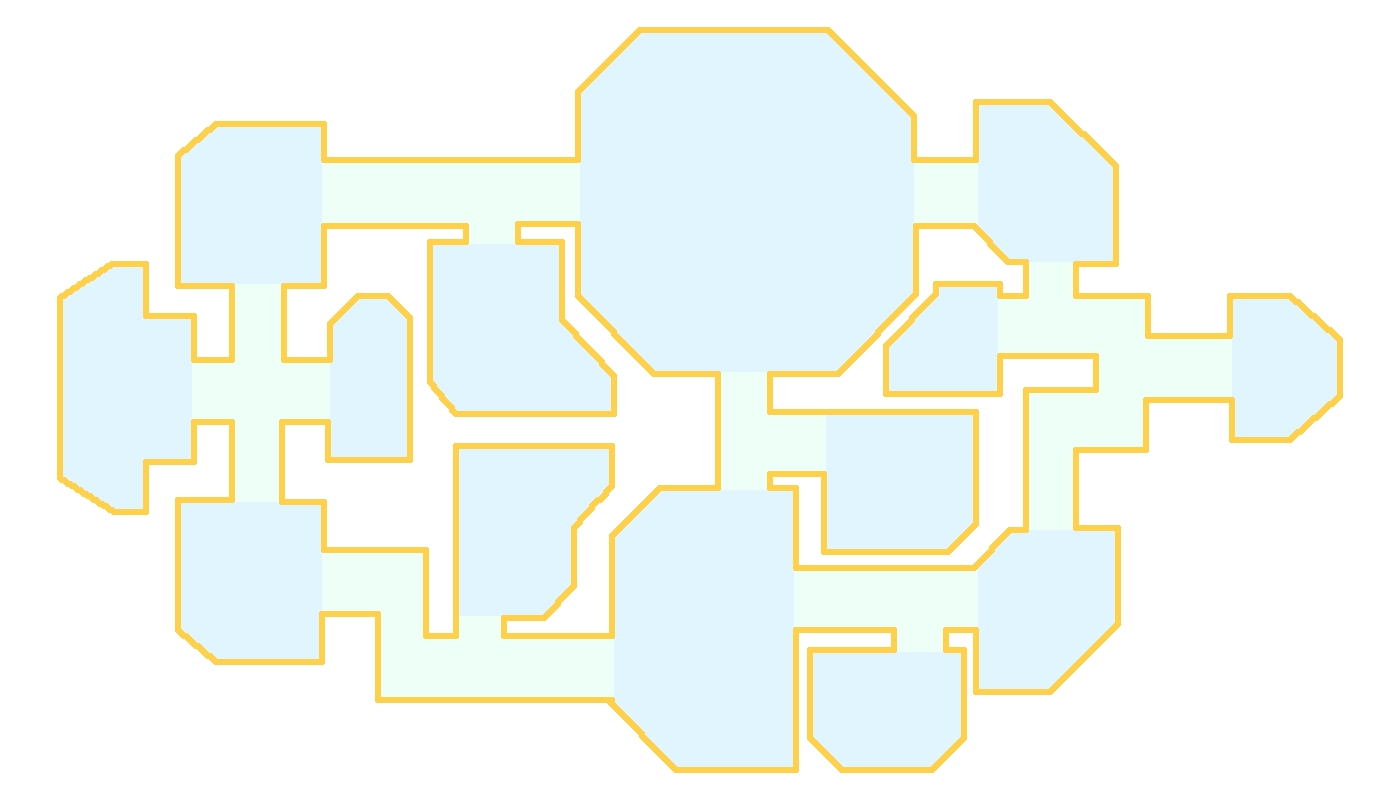
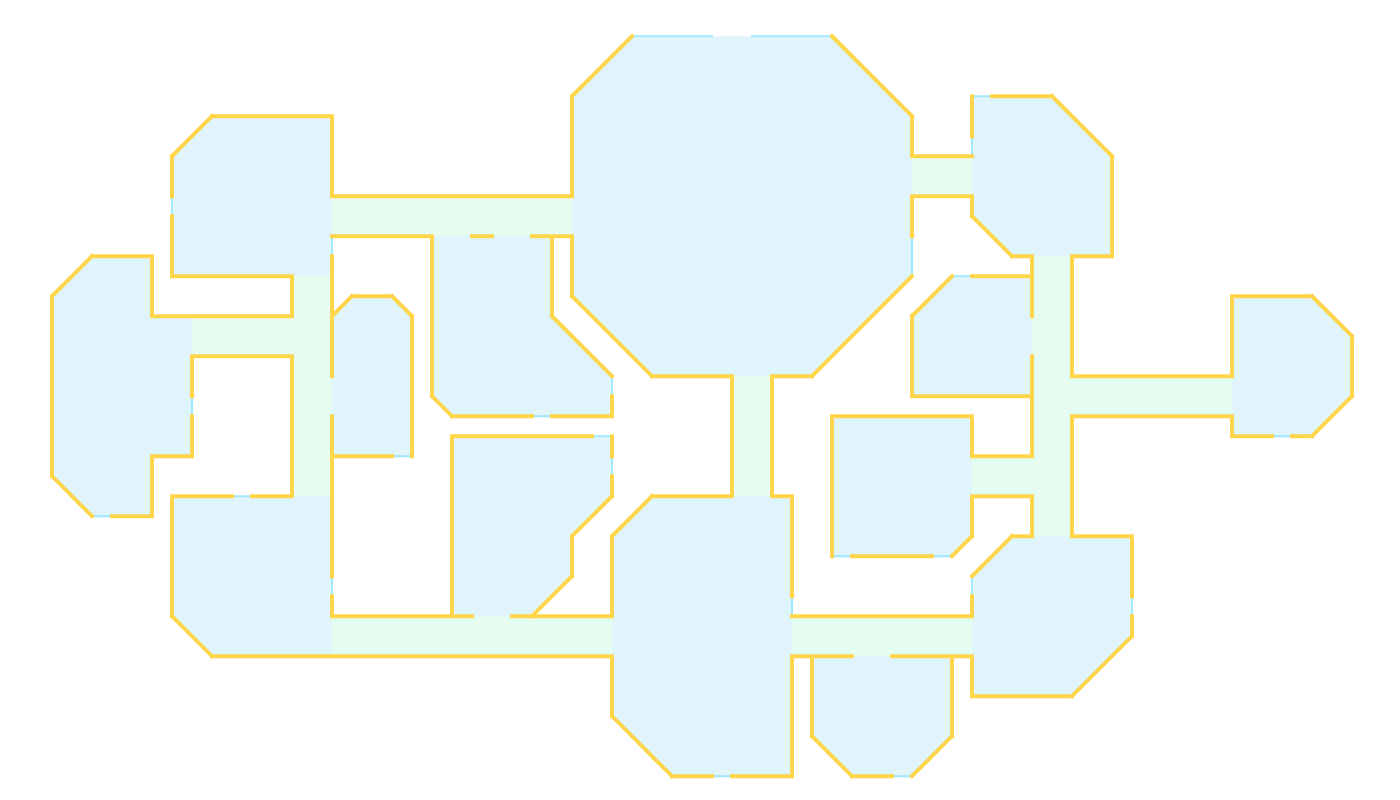
Haunting: Grundriss-Vorlage und Vorschaubild aus dem gebauten Grundriss gerechnet
Die Vorlage am Boden war aus der Zeichnung gepaust und zeigte nach den
schmaleren Gängen (vier Felder) breite grüne Gänge unter schmalen Wänden.
world3d/blueprintDrawing.ts zeichnet sie jetzt als SVG aus roomOutline und
wallSegments (Türlücken, Fenster), tools/station-outline.mjs rastert sie im
Chromium und schreibt dazu public/worlds/haunting.webp neu.

Claude-Session: https://claude.ai/code/session_01KsvF36raZrb8AB9aweLDKb

diff --git a/src/worlds/haunting/world3d/blueprintDrawing.ts b/src/worlds/haunting/world3d/blueprintDrawing.ts
@@ -1,0 +1,89 @@
+import { roomOutline, spacesOf, type HouseSpec } from '../house';
+import { wallSegments } from '../map/geometry';
+import { BLUEPRINT } from './blueprint';
+
+/**
+ * **Die Grundriss-Vorlage, aus dem gebauten Grundriss gerechnet.**
+ *
+ * Bis September 2026 war `public/haunting/station-outline.png` aus der
+ * Zeichnung des Besitzers gepaust (`docs/orbital/station-vorlage.webp`). Seit
+ * die Gänge den Regeln aus `stationRules.ts` folgen (vier Felder breit), passt
+ * die Zeichnung nicht mehr: Am Boden lagen breite grüne Gänge unter schmalen
+ * Wänden. Jetzt entsteht das Bild aus demselben Grundriss wie die Station —
+ * Räume und Gänge aus `roomOutline`, Wände samt Türlücken und Fenstern aus
+ * `map/geometry.wallSegments` — und wird mit `node tools/station-outline.mjs`
+ * neu gerechnet, wann immer `stationMap.ts` sich ändert.
+ *
+ * Hier steht nur das SVG als Text, ohne Browser: Gerastert wird es im
+ * Werkzeug mit Chromium (wie `tools/icons.mjs`). Maßstab und Lage bleiben die
+ * von `BLUEPRINT`, damit `blueprintArt.ts` nichts davon merkt.
+ */
+
+/** Die Farben der Vorlage — dieselben wie im alten, gepausten Bild. */
+export const BLUEPRINT_COLOURS = {
+  wall: '#ffd54a',
+  window: '#9fe8ff',
+  room: 'rgba(170, 225, 245, 0.38)',
+  passage: 'rgba(170, 245, 205, 0.30)',
+} as const;
+
+/** Wie dick eine Wandlinie gezeichnet wird, in Pixeln (20 Pixel = 1 m). */
+export const BLUEPRINT_WALL_PX = 4;
+
+export interface BlueprintDrawingOptions {
+  /** Hintergrund hinter allem (Vorschaubild); ohne ist das Bild durchsichtig. */
+  background?: string;
+}
+
+/** Ein Punkt der Station (Meter) als Pixel der Vorlage. */
+export function blueprintPixel(x: number, z: number): { px: number; py: number } {
+  const { anchor, pxPerMetre } = BLUEPRINT;
+  return {
+    px: anchor.px + (x - anchor.x) * pxPerMetre,
+    py: anchor.py + (z - anchor.z) * pxPerMetre,
+  };
+}
+
+const round = (value: number): string => String(Math.round(value * 10) / 10);
+
+/**
+ * Das SVG der Vorlage: `BLUEPRINT.width` × `BLUEPRINT.height` Pixel, Räume
+ * blau und Gänge grün getönt, Wände gelb mit Lücken für die Türen, Fenster
+ * hellblau.
+ */
+export function blueprintSvg(spec: HouseSpec, options: BlueprintDrawingOptions = {}): string {
+  const { width, height } = BLUEPRINT;
+  const parts: string[] = [
+    `<svg xmlns="http://www.w3.org/2000/svg" width="${width}" height="${height}" viewBox="0 0 ${width} ${height}">`,
+  ];
+  if (options.background)
+    parts.push(`<rect width="${width}" height="${height}" fill="${options.background}"/>`);
+  for (const space of spacesOf(spec)) {
+    const points = roomOutline(space)
+      .map((corner) => {
+        const { px, py } = blueprintPixel(corner.x, corner.z);
+        return `${round(px)},${round(py)}`;
+      })
+      .join(' ');
+    const fill = space.circulation ? BLUEPRINT_COLOURS.passage : BLUEPRINT_COLOURS.room;
+    parts.push(`<polygon points="${points}" fill="${fill}"/>`);
+  }
+  const line = (kind: 'wall' | 'window', width: number, colour: string): void => {
+    const d = wallSegments(spec)
+      .filter((segment) => segment.kind === kind)
+      .map((segment) => {
+        const a = blueprintPixel(segment.a.x, segment.a.z);
+        const b = blueprintPixel(segment.b.x, segment.b.z);
+        return `M${round(a.px)} ${round(a.py)}L${round(b.px)} ${round(b.py)}`;
+      })
+      .join('');
+    if (d)
+      parts.push(
+        `<path d="${d}" fill="none" stroke="${colour}" stroke-width="${width}" stroke-linecap="square"/>`,
+      );
+  };
+  line('window', BLUEPRINT_WALL_PX / 2, BLUEPRINT_COLOURS.window);
+  line('wall', BLUEPRINT_WALL_PX, BLUEPRINT_COLOURS.wall);
+  parts.push('</svg>');
+  return parts.join('\n');
+}

diff --git a/src/worlds/haunting/world3d/blueprintDrawing.test.ts b/src/worlds/haunting/world3d/blueprintDrawing.test.ts
@@ -1,0 +1,40 @@
+import { generateHouse, spacesOf } from '../house';
+import { wallSegments } from '../map/geometry';
+import { BLUEPRINT } from './blueprint';
+import { BLUEPRINT_COLOURS, blueprintPixel, blueprintSvg } from './blueprintDrawing';
+
+describe('Die Grundriss-Vorlage aus dem gebauten Grundriss', () => {
+  const spec = generateHouse(1, 14);
+  const svg = blueprintSvg(spec);
+
+  it('rechnet Meter in Pixel der Vorlage — 20 Pixel je Meter ab dem Anker', () => {
+    expect(blueprintPixel(-34, -52)).toEqual({ px: 52, py: 36.2 });
+    const next = blueprintPixel(-33, -50);
+    expect(next.px).toBeCloseTo(72);
+    expect(next.py).toBeCloseTo(76.2);
+  });
+
+  it('ist so groß wie die Vorlage und durchsichtig, solange kein Hintergrund verlangt ist', () => {
+    expect(svg).toContain(`width="${BLUEPRINT.width}" height="${BLUEPRINT.height}"`);
+    expect(svg).not.toContain('<rect');
+    expect(blueprintSvg(spec, { background: '#000' })).toContain('<rect');
+  });
+
+  it('zeichnet jeden Raum und jeden Gang als eigene Fläche, Gänge grün getönt', () => {
+    const polygons = svg.match(/<polygon /g) ?? [];
+    expect(polygons).toHaveLength(spacesOf(spec).length);
+    const passages = svg.split(BLUEPRINT_COLOURS.passage).length - 1;
+    expect(passages).toBe(spec.passages?.length ?? 0);
+  });
+
+  it('zeichnet jede Wandstrecke — und alles liegt innerhalb des Bildes', () => {
+    const walls = wallSegments(spec).filter((segment) => segment.kind === 'wall');
+    const moves = svg.match(/M[-\d.]+ [-\d.]+L[-\d.]+ [-\d.]+/g) ?? [];
+    expect(moves.length).toBeGreaterThanOrEqual(walls.length);
+    for (const move of moves) {
+      const [x1, y1, x2, y2] = move.match(/-?[\d.]+/g)!.map(Number);
+      for (const x of [x1!, x2!]) expect(x >= 0 && x <= BLUEPRINT.width).toBe(true);
+      for (const y of [y1!, y2!]) expect(y >= 0 && y <= BLUEPRINT.height).toBe(true);
+    }
+  });
+});

diff --git a/src/worlds/haunting/world3d/blueprint.ts b/src/worlds/haunting/world3d/blueprint.ts
@@ -11,12 +11,13 @@ import type { Rect } from '../house';
  * Vorher war sie nur ungefähr abgepaust (24 Pixel = 1 m), und Boden und Wände
  * passten nicht zum Bild. Die Eichung ist die beste Deckung aller Wandlinien
  * mit den Kachelkanten: Pixelspalte 52 ist `x = −34`, Pixelzeile 36,2 ist
- * `z = −52`. Aus der Vorlage ist `public/haunting/station-outline.png`
- * gerechnet — Wände als helle Linien, Räume und Gänge leicht getönt, alles
- * andere durchsichtig —, und wer es einschaltet (_Optionen →
- * Grundriss-Vorlage_), sieht, wo das Raster von der Zeichnung abweicht: um
- * höchstens eine halbe Kachel, wo eine Linie auf die nächste Kante gerundet
- * ist.
+ * `z = −52`. Das Bild `public/haunting/station-outline.png` war zuerst aus
+ * der Zeichnung gepaust; seit die Gänge vier Felder breit sind
+ * (`stationRules.ts`), wird es **aus dem gebauten Grundriss gerechnet**
+ * (`blueprintDrawing.ts`, `node tools/station-outline.mjs`) — Wände gelb mit
+ * Türlücken, Räume blau und Gänge grün getönt, alles andere durchsichtig —,
+ * in derselben Eichung. Wer es einschaltet (_Optionen → Grundriss-Vorlage_),
+ * sieht also genau die Wände, die gebaut sind.
  *
  * Hier stehen nur Zahlen, kein three.js und kein `import.meta`: Die Eichung
  * prüft ein Test (`blueprint.test.ts`) gegen die Räume des Grundrisses.

diff --git a/src/worlds/haunting/stationMap.ts b/src/worlds/haunting/stationMap.ts
@@ -1,6 +1,7 @@
 /**
  * **Die Station, Kachel für Kachel** — abgepaust von der Vorlage des Besitzers
- * (`public/haunting/station-outline.png`, `docs/orbital/station-vorlage.webp`)
+ * (`docs/orbital/station-vorlage.webp`; die Vorlage am Boden, `public/haunting/station-outline.png`,
+ * wird inzwischen umgekehrt aus dieser Karte gerechnet)
  * im Maßstab **20 Pixel = 1 Meter** (`world3d/blueprint.ts`).
  *
  * Gewünscht: _„Kannst du map haunting neu aufbauen, die Boden und

diff --git a/docs/agents/haunting.md b/docs/agents/haunting.md
@@ -65,8 +65,9 @@ inhaltliche Stand in README und diese Architektur müssen zusammenpassen.
       **Shields, eine Kachel breiter** (die Westtür liegt jetzt tiefer, und
       die Einrichtung fand bei 11 von 300 Samen keinen Platz mehr; die
       Klappe `vent-shields` wandert mit an die neue Ostwand). Die
-      Grundriss-Vorlage am Boden zeigt die Gänge daher breiter, als sie
-      gebaut sind.
+      Grundriss-Vorlage am Boden wird seither aus dem gebauten Grundriss
+      gerechnet (siehe _Die Vorlage am Boden_) und zeigt die Gänge so
+      schmal, wie sie sind.
     `stationRooms` legt die `:`-Kacheln zu Rechtecken zusammen.
   - **Kein Raum berührt einen anderen** (`roomGraph.test`: keine Wandnachbarn
     ohne Tür); wo die Zeichnung zwei Schrägen dichter zusammenlegt, ist eine
@@ -88,10 +89,19 @@ inhaltliche Stand in README und diese Architektur müssen zusammenpassen.
   (`localStorage` `haunting:blueprint`). Eichung: **20 Pixel = 1 m**, die
   beste Deckung aller Wandlinien mit den Kachelkanten — Pixelspalte 52 ist
   `x = −34`, Pixelzeile 36,2 ist `z = −52`. Das Bild
-  `public/haunting/station-outline.png` ist aus der Vorlage gerechnet
-  (Wände gelb, Räume blau, Gänge grün getönt, der Rest durchsichtig);
-  `blueprint.test` prüft, dass jede Raummitte höchstens 1,5 m neben ihrer
-  Zeichnung liegt.
+  `public/haunting/station-outline.png` war zuerst aus der Zeichnung
+  gepaust; seit die Gänge vier Felder breit sind, passte es nicht mehr
+  (breite grüne Gänge unter schmalen Wänden). **Jetzt wird es aus dem
+  gebauten Grundriss gerechnet** (`world3d/blueprintDrawing.ts`:
+  `roomOutline` je Raum und Gang, Wände aus `map/geometry.wallSegments`
+  samt Türlücken, Fenster hellblau) und mit
+  `SMOKE_EXECUTABLE=/opt/pw-browsers/chromium node tools/station-outline.mjs`
+  im Chromium gerastert — **wer `stationMap.ts` ändert, lässt das noch einmal
+  laufen**. Dasselbe Werkzeug schreibt das Vorschaubild der Startseite
+  (`public/worlds/haunting.webp`, 480 × 270, die Zeichnung vor einem
+  Sternenfeld aus festem Samen). `blueprint.test` prüft, dass jede
+  Raummitte höchstens 1,5 m neben der Zeichnung des Besitzers liegt,
+  `blueprintDrawing.test` Fläche je Raum und Gang, Wände und Bildgrenzen.
 - **Die schrägen Wände** (45°-Wände der Vorlage). Die Schrägkacheln stehen in
   der Karte (`STATION_MAP`, kleine Buchstaben); außerhalb der Station gibt es
   noch Ecken als `HouseRoom.cuts` (Ecke und Länge, `'sw2 se2'`).

diff --git a/docs/agents/seite.md b/docs/agents/seite.md
@@ -482,9 +482,10 @@ dort führt _← Andere Welt wählen_ zurück.
 **Die Bilder** liegen in `public/worlds/` (WebP, 480 × 270, zusammen rund
 35 kB, `loading="lazy"`) und stehen in der Definition der Welt
 (`WorldDefinition.preview`). Es sind Aufnahmen der Welten selbst — Hub und
-Bauplatz aus den Augen, die Testwelt (Küche) von oben —, Haunting nimmt den
-vorhandenen Stationsplan (`public/haunting/station-outline.png`) vor einem
-Sternenfeld. **Eine neue Welt ohne Bild** bekommt eine Fläche in ihrer
+Bauplatz aus den Augen, die Testwelt (Küche) von oben —, Haunting ist der
+gebaute Grundriss vor einem Sternenfeld, gerechnet von
+`tools/station-outline.mjs` (zusammen mit der Vorlage am Boden, siehe
+[Haunting](haunting.md)). **Eine neue Welt ohne Bild** bekommt eine Fläche in ihrer
 Akzentfarbe; wer ein Bild will, nimmt die Welt im Browser auf (Hände und
 Handgelenk-Knopf ausblenden: `bgvr.handVisuals.hidden = true`,
 `bgvr.wristMenu.visible = false`), verkleinert auf 480 × 270 und trägt den
